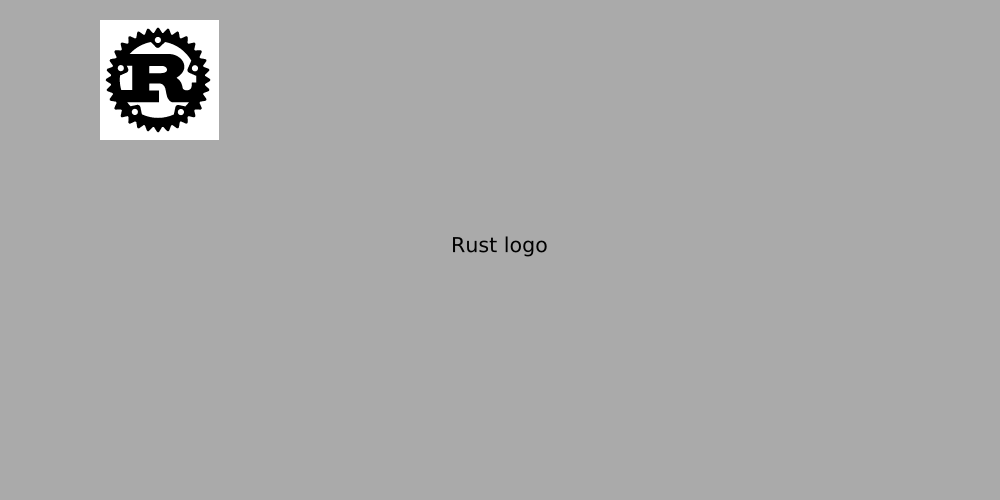
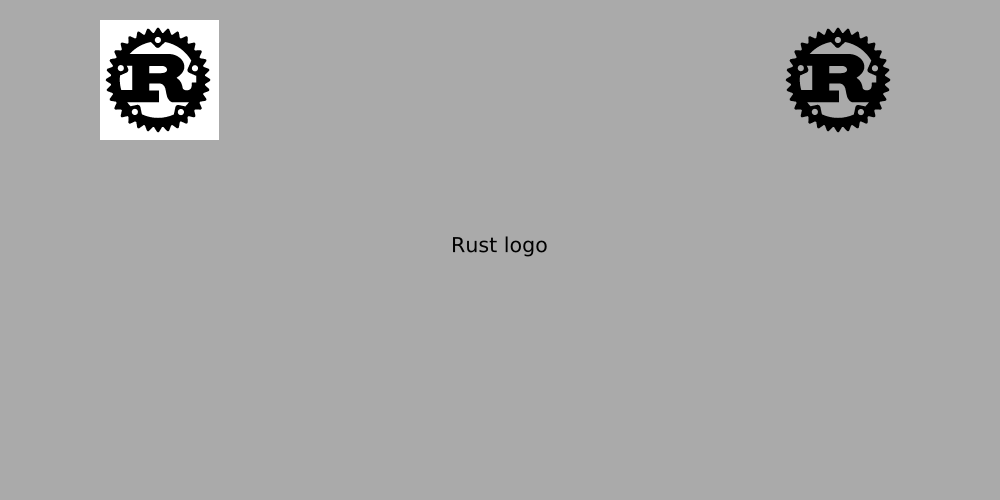
make image background transparent

Changed region(s): [[0.775, 0.06, 0.899, 0.27]]

diff --git a/src/lib.rs b/src/lib.rs
@@ -80,6 +80,9 @@ pub struct Embed {
     /// Optional corner radius (e.g., `25`, `"25px"`, `"25%"`, `"50%"`, or `"round"`)
     #[serde(default, alias = "border_radius")]
     pub radius: Option<EmbedRadius>,
+    /// Optional hex color in the embedded image to treat as transparent (e.g., `"FFFFFF"`)
+    #[serde(default)]
+    pub transparent_color: Option<String>,
 }
 
 /// Represent a line of text to be displayed on the banner
@@ -210,6 +213,7 @@ pub fn draw_image(banner: &Banner, root: &Path, path: &PathBuf) -> bool {
             emb.y,
             emb.width,
             emb.radius.as_ref(),
+            emb.transparent_color.as_deref(),
         ) {
             eprintln!("Error embedding image: {error}");
             std::process::exit(1);
@@ -677,6 +681,46 @@ fn shape_coverage(shape: EmbedShape, x: u32, y: u32, width: u32, height: u32) ->
     }
 }
 
+fn apply_color_key(src: Rgba<u8>, key: Rgba<u8>) -> (Rgba<u8>, f32) {
+    let mut key_alpha = 0.0_f32;
+    for c in 0..3 {
+        let s = src[c] as f32;
+        let k = key[c] as f32;
+        let channel_alpha = if (s - k).abs() < f32::EPSILON {
+            0.0
+        } else if s > k {
+            (s - k) / (255.0 - k)
+        } else {
+            (k - s) / k
+        };
+        if channel_alpha > key_alpha {
+            key_alpha = channel_alpha;
+        }
+    }
+
+    if key_alpha <= 0.0 {
+        return (src, 0.0);
+    }
+
+    let recover = |s: u8, k: u8| -> u8 {
+        let s = s as f32;
+        let k = k as f32;
+        ((s - k * (1.0 - key_alpha)) / key_alpha)
+            .round()
+            .clamp(0.0, 255.0) as u8
+    };
+
+    (
+        Rgba([
+            recover(src[0], key[0]),
+            recover(src[1], key[1]),
+            recover(src[2], key[2]),
+            src[3],
+        ]),
+        key_alpha,
+    )
+}
+
 fn embed_image(
     img: &mut image::ImageBuffer<Rgba<u8>, Vec<u8>>,
     infile: &PathBuf,
@@ -684,6 +728,7 @@ fn embed_image(
     start_y: u32,
     width: Option<u32>,
     radius: Option<&EmbedRadius>,
+    transparent_color: Option<&str>,
 ) -> Result<(), Box<dyn Error>> {
     log::info!("embed_image from file {infile:?}");
 
@@ -716,9 +761,13 @@ fn embed_image(
     }
 
     let shape = resolve_embed_shape(radius, logo.width(), logo.height())?;
+    let key_color = match transparent_color {
+        Some(color) => Some(get_color_checked(color)?),
+        None => None,
+    };
 
-    match shape {
-        EmbedShape::Rectangle => {
+    match (shape, key_color) {
+        (EmbedShape::Rectangle, None) => {
             for x in 0..logo.width() {
                 for y in 0..logo.height() {
                     let px = logo.get_pixel(x, y);
@@ -729,7 +778,7 @@ fn embed_image(
                 }
             }
         }
-        EmbedShape::RoundedRect { .. } | EmbedShape::Circle { .. } => {
+        _ => {
             for x in 0..logo.width() {
                 for y in 0..logo.height() {
                     let coverage = shape_coverage(shape, x, y, logo.width(), logo.height());
@@ -737,7 +786,11 @@ fn embed_image(
                         continue;
                     }
                     let src = logo.get_pixel(x, y);
-                    let alpha = (src[3] as f32 / 255.0) * coverage;
+                    let (src, key_alpha) = match key_color {
+                        Some(key) => apply_color_key(src, key),
+                        None => (src, 1.0),
+                    };
+                    let alpha = (src[3] as f32 / 255.0) * coverage * key_alpha;
                     if alpha <= 0.0 {
                         continue;
                     }
